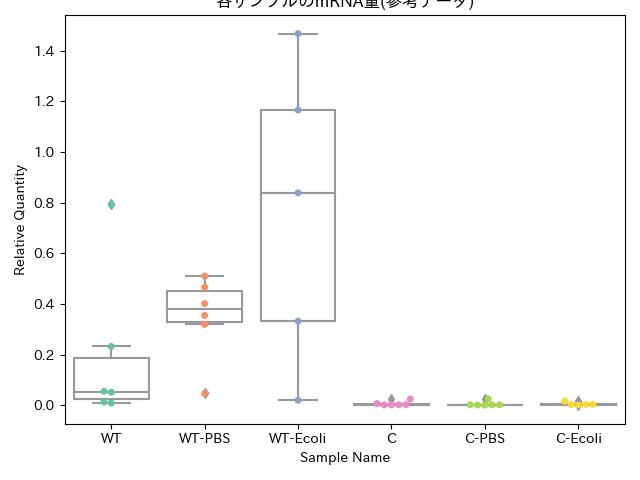
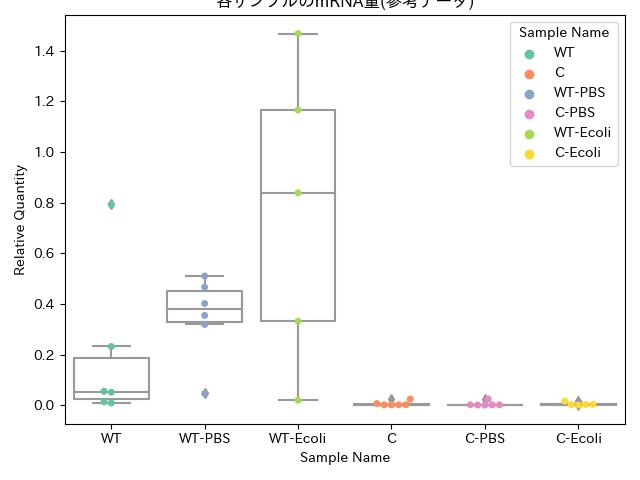
11/6 19:56

diff --git a/main.py b/main.py
@@ -4,18 +4,19 @@ import matplotlib.pyplot as plt
 import seaborn as sns
 from scipy.stats import tukey_hsd
 import japanize_matplotlib
-
+import warnings
+warnings.simplefilter('ignore')
 
 """自班データの解析"""
 # エクセルファイルを取得
 excel_path = "/Users/kotaro/Desktop/遺伝R/2023-11-02_実習B_1-6班.xls"
-df3 = pd.read_excel(excel_path,sheet_name="Results",skiprows=46,skipfooter=5)
+df3 = pd.read_excel(excel_path, sheet_name="Results", skiprows=46, skipfooter=5)
 
 # グループ情報の取得
 df3["char_Well Position"] = df3["Well Position"].str[0]
 chars = list(df3["char_Well Position"].unique())
-chars.sort() #念の為、ソート
-chars = chars[:-1] #H列の削除
+chars.sort()  # 念の為、ソート
+chars = chars[:-1]  # H列の削除
 
 dfs = []
 
@@ -23,15 +24,15 @@ dfs = []
 for Group_char in chars:
     df_extracted = df3[df3["Well Position"].str.contains(Group_char)][["Sample Name", "Target Name", "Quantity"]]
     df_Dpt = df_extracted[df_extracted["Target Name"] == "Dpt"].rename(
-        columns={"Target Name": "Target Name Dpt", "Quantity": "Quantity Dpt"}) #各文字のDptの要素のdf
+        columns={"Target Name": "Target Name Dpt", "Quantity": "Quantity Dpt"})  # 各文字のDptの要素のdf
     df_pol = df_extracted[df_extracted["Target Name"] == "pol2"].rename(
-        columns={"Target Name": "Target Name pol2", "Quantity": "Quantity pol2"}) #各文字のpol2の要素のdf
-    df_merged = pd.merge(df_Dpt, df_pol, on="Sample Name") #"Sample Name"の下でマージ
+        columns={"Target Name": "Target Name pol2", "Quantity": "Quantity pol2"})  # 各文字のpol2の要素のdf
+    df_merged = pd.merge(df_Dpt, df_pol, on="Sample Name")  # "Sample Name"の下でマージ
     df_merged["Relative Quantity"] = df_merged["Quantity Dpt"] / df_merged["Quantity pol2"]
     dfs.append(df_merged)
 
 # 結合したものをAから順にまとめたエクセルファイルの出力
-df_concated = (pd.concat(dfs, axis=0)) #それぞれのdfをconcatenate
+df_concated = (pd.concat(dfs, axis=0))  # それぞれのdfをconcatenate
 # df_concated.to_csv("/Users/kotaro/Desktop/遺伝R/Relative_quantity.csv",encoding="cp932")
 
 # サンプルごとにまとめたエクセルファイルの出力
@@ -40,22 +41,24 @@ for i in df_concated["Sample Name"].unique():
     dfs3.append(df_concated[df_concated["Sample Name"] == i])
 
 df_concated3 = (pd.concat(dfs3, axis=0))
-df_concated3.to_csv("/Users/kotaro/Desktop/遺伝R/Relative_quantity(Sample_name).csv",encoding="cp932")
-
+df_concated3.to_csv("/Users/kotaro/Desktop/遺伝R/Relative_quantity(Sample_name).csv", encoding="cp932")
 
 # グラフの作成
-sns.boxplot(data=df_concated, x="Sample Name", y="Relative Quantity", order=["WT","WT-Ecoli","WT-PBS","C","C-Ecoli","C-PBS"],color='white')
-sns.swarmplot(data=df_concated, x="Sample Name", y="Relative Quantity", order=["WT","WT-Ecoli","WT-PBS","C","C-Ecoli","C-PBS"], palette='Set2')
+sns.boxplot(data=df_concated, x="Sample Name", y="Relative Quantity",
+            order=["WT", "WT-Ecoli", "WT-PBS", "C", "C-Ecoli", "C-PBS"], color='white')
+sns.swarmplot(data=df_concated, x="Sample Name", y="Relative Quantity",
+              order=["WT", "WT-Ecoli", "WT-PBS", "C", "C-Ecoli", "C-PBS"], palette='Set2')
 plt.title("各サンプルのmRNA量")
-for i in range(1,6):
-    plt.text(i,df_concated[df_concated["Sample Name"] == list(["WT","WT-Ecoli","WT-PBS","C","C-Ecoli","C-PBS"])[i]]["Relative Quantity"].max()*1.04," n.s.",verticalalignment='bottom',horizontalalignment="center")
-plt.ylim([-1000,30000])
+for i in range(1, 6):
+    plt.text(i,
+             df_concated[df_concated["Sample Name"] == list(["WT", "WT-Ecoli", "WT-PBS", "C", "C-Ecoli", "C-PBS"])[i]][
+                 "Relative Quantity"].max() * 1.04, " n.s.", verticalalignment='bottom', horizontalalignment="center")
+plt.ylim([-1000, 30000])
 plt.tight_layout()
 
 plt.savefig("/Users/kotaro/Desktop/遺伝R/RT-RNA Result.jpg")
 plt.show()
 plt.close()
-
 
 # 統計処理
 group = df_concated.groupby("Sample Name")
@@ -63,15 +66,15 @@ group = df_concated.groupby("Sample Name")
 temps = []
 temps_name = []
 
-for i,v in group:
+for i, v in group:
     # print(i)
     temps_name.append(i)
     temp = group.get_group(i)
     temps.append(list(temp["Relative Quantity"]))
 
-
-res = tukey_hsd(temps[0],temps[1],temps[2],temps[3],temps[4],temps[5])
-print("番号の対応 : ",temps_name)
+res = tukey_hsd(temps[0], temps[1], temps[2], temps[3], temps[4], temps[5])
+print("自班のデータ")
+print("番号の対応 : ", temps_name)
 # print(res.confidence_interval(confidence_level=0.99))
 print(res)
 
@@ -82,13 +85,13 @@ df_temp = pd.read_excel(excel_path, sheet_name="Results", skiprows=46, skipfoote
 
 # 使用していないグループの除去
 df_temp = df_temp[~df_temp["Sample Name"].isna()]
-df_temp = df_temp[["Well Position","Sample Name", "Target Name", "Quantity"]]
+df_temp = df_temp[["Well Position", "Sample Name", "Target Name", "Quantity"]]
 
 # サンプル名称の統一
-df_temp.loc[df_temp["Sample Name"] == "WT infection","Sample Name"] = "WT-Ecoli"
-df_temp.loc[df_temp["Sample Name"] == "WT PBS","Sample Name"] = "WT-PBS"
-df_temp.loc[df_temp["Sample Name"] == "C infection","Sample Name"] = "C-Ecoli"
-df_temp.loc[df_temp["Sample Name"] == "C PBS","Sample Name"] = "C-PBS"
+df_temp.loc[df_temp["Sample Name"] == "WT infection", "Sample Name"] = "WT-Ecoli"
+df_temp.loc[df_temp["Sample Name"] == "WT PBS", "Sample Name"] = "WT-PBS"
+df_temp.loc[df_temp["Sample Name"] == "C infection", "Sample Name"] = "C-Ecoli"
+df_temp.loc[df_temp["Sample Name"] == "C PBS", "Sample Name"] = "C-PBS"
 
 # Relative Quantityの導出
 dfs2 = []
@@ -99,14 +102,16 @@ for Group_char in list(df_temp["Sample Name"].unique()):
     df_pol = df_extracted2[df_extracted2["Target Name"] == "pol2"].rename(
         columns={"Target Name": "Target Name pol2"}).reset_index(drop=True)
     for i in range(len(df_Dpt)):
-        df_Dpt.loc[i,"Relative Quantity"] = df_Dpt.loc[i,"Quantity"]/df_pol.loc[i,"Quantity"]
+        df_Dpt.loc[i, "Relative Quantity"] = df_Dpt.loc[i, "Quantity"] / df_pol.loc[i, "Quantity"]
     dfs2.append(df_Dpt)
 
 df_concated2 = pd.concat(dfs2, axis=0)
 
 # グラフの描画
-sns.boxplot(data=df_concated2, x="Sample Name", y="Relative Quantity", order=["WT","WT-PBS","WT-Ecoli","C","C-PBS","C-Ecoli"],color='white')
-sns.swarmplot(data=df_concated2, x="Sample Name", y="Relative Quantity", order=["WT","WT-PBS","WT-Ecoli","C","C-PBS","C-Ecoli"], palette='Set2')
+sns.boxplot(data=df_concated2, x="Sample Name", y="Relative Quantity",
+            order=["WT", "WT-PBS", "WT-Ecoli", "C", "C-PBS", "C-Ecoli"], color='white')
+sns.swarmplot(data=df_concated2, x="Sample Name", y="Relative Quantity",
+              order=["WT", "WT-PBS", "WT-Ecoli", "C", "C-PBS", "C-Ecoli"], hue="Sample Name", palette='Set2')
 plt.tight_layout()
 plt.title("各サンプルのmRNA量(参考データ)")
 plt.savefig("/Users/kotaro/Desktop/遺伝R/RT-RNA(reference).jpg")
@@ -115,15 +120,16 @@ plt.close()
 
 # 統計処理
 temps2 = []
+temps2_names = []
 group_temp = df_concated2.groupby("Sample Name")
-for i,v in group_temp:
+for i, v in group_temp:
     temp_temp = []
-    print(i)
+    temps2_names.append(i)
     for j in range(len(group_temp.get_group(i))):
-        temp_temp.append(group_temp.get_group(i).loc[j,"Relative Quantity"])
+        temp_temp.append(group_temp.get_group(i).loc[j, "Relative Quantity"])
     temps2.append(temp_temp)
-res = tukey_hsd(temps2[0],temps2[1],temps2[2],temps2[3],temps2[4],temps2[5])
+res = tukey_hsd(temps2[0], temps2[1], temps2[2], temps2[3], temps2[4], temps2[5])
 # print(res.confidence_interval(confidence_level=0.99))
+print("参考データ")
+print("番号の対応 : ", temps2_names)
 print(res)
-
-
